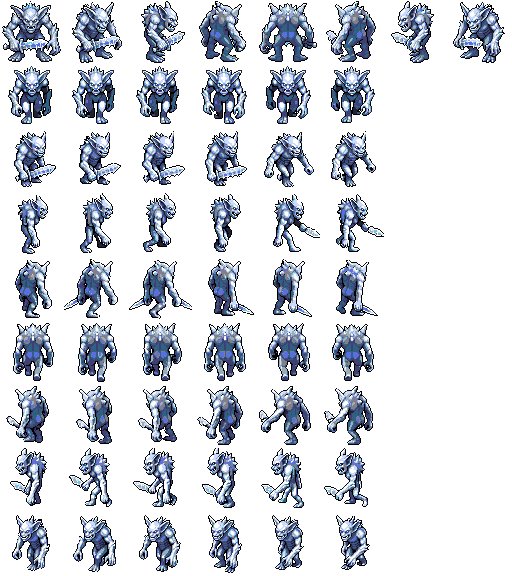
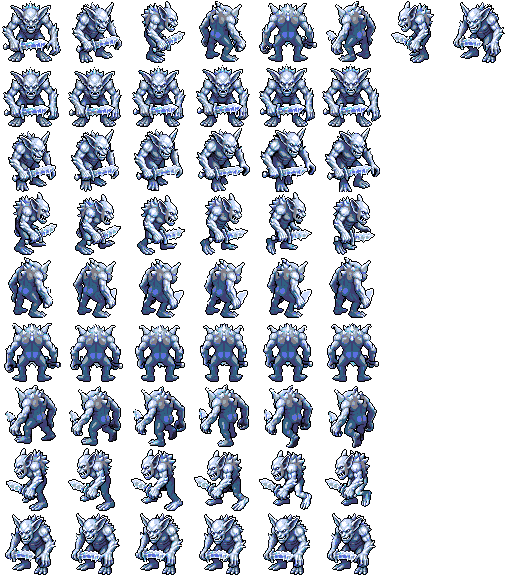
Switch winter_ice_goblin walk from template to v3
Template walk shrank the hunched goblin; v3 walk keeps its bulk (walk/idle
bbox ratio 0.99) and the sword visible. Handoff updated: snow witch fully
queued, sand spirit 5/8 queued.

Claude-Session: https://claude.ai/code/session_016PUWeHFa5hxBbma7ceDCsG

Changed region(s): [[0.0, 0.0938, 0.75, 1.0]]

diff --git a/assets/characters/ASSET_REGISTRY.md b/assets/characters/ASSET_REGISTRY.md
@@ -268,11 +268,18 @@ via `reduce_colors` against `assets/palettes/db32.png`).
   clearly visible in every direction** (same weapon-visibility risk flagged for the archer in
   earlier attempts) — needs explicit user check, may need a prompt tweak like the archer's bow
   fix if rejected.
-- Walk `animation_group_id`: `e9500689-0796-4276-ac74-9b2710416fd0` (template `walk`, all 8
-  directions). `reduce_colors` against DB32 done locally (see forest_ant note). All 56 frames:
-  **0 off-palette opaque pixels**. Atlas saved:
+- Walk (superseded): template `walk` group `e9500689-...` — shrank the hunched goblin onto a
+  human skeleton; deleted.
+- Walk (current): `animation_group_id` `a4c2f53e-d691-4cb7-b2b4-a053724b1672`, `mode="v3"` custom,
+  `frame_count=6`, `keep_first_frame=false`, all 8 directions, action "hunched sneaking goblin
+  walk, clawed hands low, gripping the jagged ice shortsword firmly and keeping it clearly
+  visible, body keeps the same size and proportions as the standing pose". Cropped to 64x64
+  with one offset per direction (13 opaque px clipped over 48 frames). walk/idle ratio **0.99**.
+  DB32 0 off-palette. Rebuilt via `tools/process_pixellab_zip.py`. My QA: every walk row keeps
+  its idle facing; the sword stays visible in all front/side directions (hidden only behind
+  the body in N/NW, as in idle). Atlas:
   `assets/characters/winter_ice_goblin/winter_ice_goblin_Idle.{png,json}`. **Sword-visibility
-  flag from idle QA still applies — needs explicit user check.**
+  still needs explicit user check.**
 
 ### winter_yeti — GDD "Йети" (Биом 3 — Зима)
 - Attempt 1 (current): `character_id` `6e183d54-c864-4844-8268-32069e056a15`, `mode="v3"`,
@@ -408,19 +415,16 @@ walk/idle ratio, builds the atlas). Target ratio ~0.9-1.05.
 
 Done with v3 walk (atlas on disk is final): forest_ant (0.97), deadlands_bone_golem (0.95),
 deadlands_skeleton (1.03, NW re-rolled for a flipping shield), winter_ice_spirit (0.98, NE
-re-rolled for a darkening core), desert_mummy (1.03), deadlands_ghost (1.03).
+re-rolled for a darkening core), desert_mummy (1.03), deadlands_ghost (1.03), winter_ice_goblin
+(0.99, 13 px clipped, all 8 dirs match idle facing, sword visible in every direction).
 
 Still to finish (atlases on disk are the OLD shrunken template-walk versions):
-- winter_ice_goblin `fc396b48-d8a3-4620-8e5c-5f78e10e7a56`, v3 group `a4c2f53e-d691-4cb7-b2b4-a053724b1672`,
-  all 8 directions queued. Action: "hunched sneaking goblin walk, clawed hands low, gripping the
-  jagged ice shortsword firmly and keeping it clearly visible, body keeps the same size and
-  proportions as the standing pose".
 - winter_snow_witch `7f896095-bfc7-4657-a29d-4623aa5d4497`, v3 group `f9189508-8db5-4ddf-8f3a-d7f954176918`,
-  7/8 queued — **south-west NOT queued yet**. Action: "slow gliding walk with long flowing frozen
+  all 8 directions queued (south-west appended to the same group). Action: "slow gliding walk with long flowing frozen
   robes swaying, gripping the ice-crystal staff firmly and keeping it clearly visible, body keeps
   the same size and proportions as the standing pose".
-- desert_sand_spirit `843a2b88-7d00-479d-bb1a-30e2d80bfe3f`: old template walk deleted, **no v3
-  walk queued yet** (all 8 directions). Use a floating action like the ghost/ice spirit:
+- desert_sand_spirit `843a2b88-7d00-479d-bb1a-30e2d80bfe3f`, v3 group `ba88e9fc-4dfd-4b6e-b508-8a1276d5921e`,
+  5/8 queued (S, SE, E, NE, N) — **NW, W, SW not queued yet** (job-slot limit). Action:
   "drifting forward while hovering, sand vortex swirling and spinning, no legs, no walking, no
   steps, keeps the same size as the idle pose".
 - winter_yeti (0.87) and forest_wolf (dog template, 0.89) left on template walk — within range.
